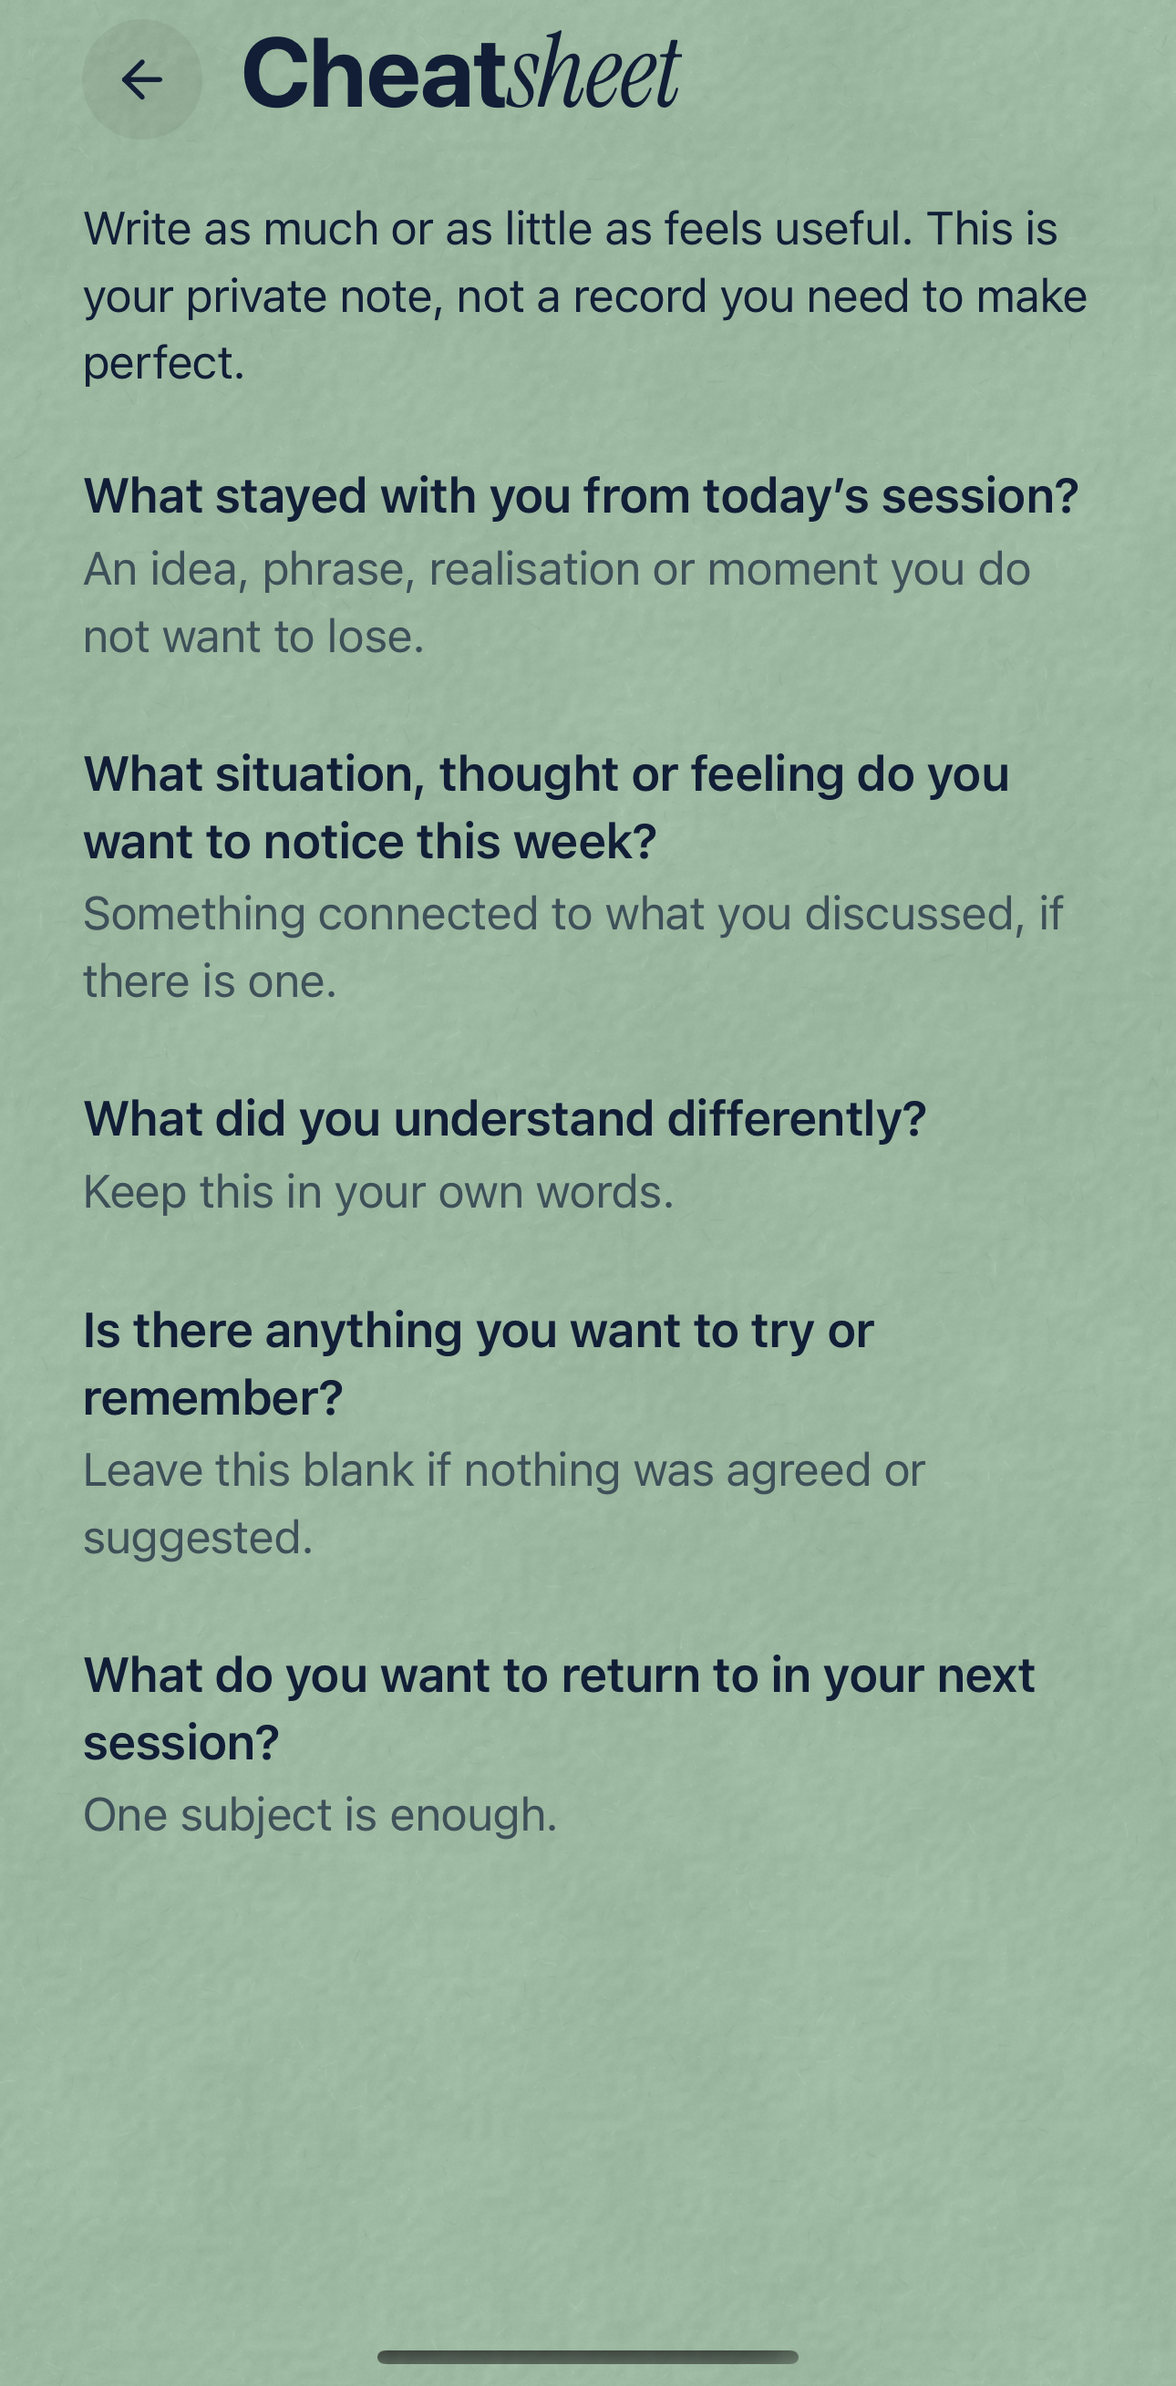
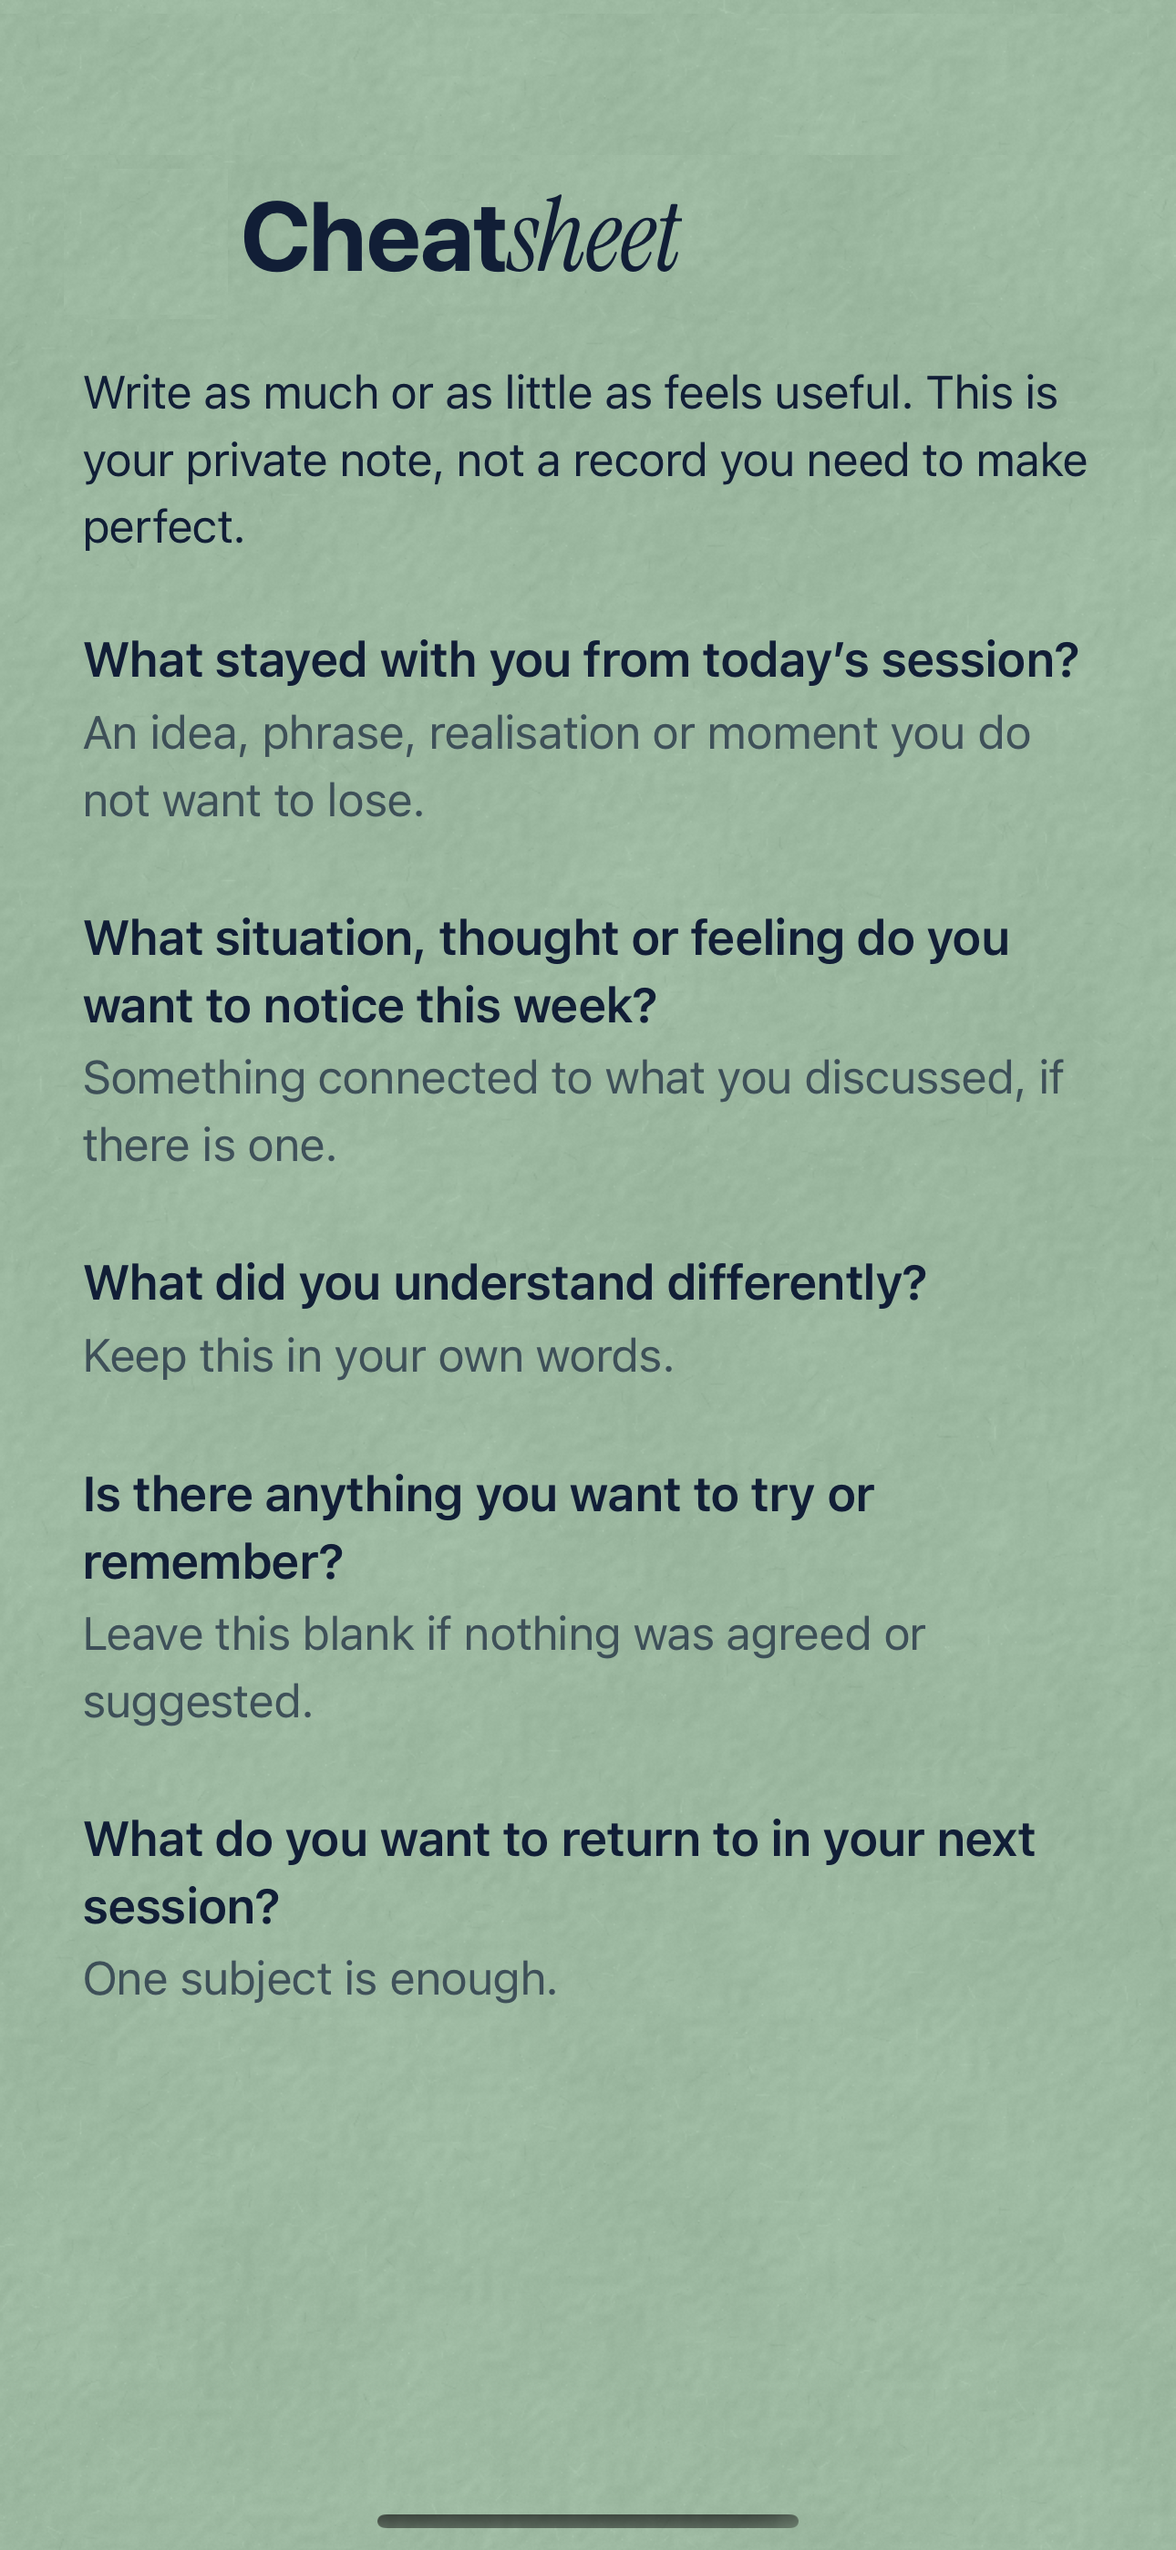
feat(onboarding): plan, reviews and notes screens per the latest design
The cheatsheet artwork loses the back arrow and status bar baked into the
screenshot: both are painted out with patches of the surrounding paper,
which also leaves clean paper padding above the title. The plan screen is
titled "Your custom plan", drops the line under the header, and its first
point now explains the notification that will actually arrive, phrased
around the session's own weekday. Its button reads "After your note".

The reviews screen opens with the evidence line instead of ending with
it, and its button reads "Your notes".

The notes screen drops its description, adds Mark's words beneath the
encryption note, and dissolves the list into the page just above the
button. Sizing that fade honestly took a simulator: a first attempt
covered the entire visible image with its own solid zone, which a red
diagnostic fill made obvious, and a stale Metro watcher had been serving
old bundles besides, which is why nothing seemed to change. Screenshots
of the final state confirmed all three screens.

Changed region(s): [[0.062, 0.0, 0.9302, 0.805], [0.4961, 0.6812, 0.8992, 0.7431], [0.093, 0.031, 0.124, 0.0619]]

diff --git a/app/(onboarding)/note-preview.tsx b/app/(onboarding)/note-preview.tsx
@@ -2,14 +2,13 @@ import { Image, StyleSheet, View, useWindowDimensions } from 'react-native';
 import type { ImageSourcePropType } from 'react-native';
 import { useRouter } from 'expo-router';
 import { Feather } from '@expo/vector-icons';
+import { LinearGradient } from 'expo-linear-gradient';
+import { QuoteCard } from '../../src/components/onboarding/QuoteCard';
+import { SURFACE_BLUE, SURFACE_BLUE_FADE } from 'designs/designs-colors';
 import { Button } from '../../src/components/ui/Button';
 import AppText from '../../src/components/ui/AppText';
 import { OnboardingScreen } from '../../src/components/onboarding/OnboardingScreen';
-import {
-    NOTE_PREVIEW_COPY,
-    notePreviewBody,
-} from '../../src/features/onboarding/onboardingCopy';
-import { useOnboardingAnswers } from '../../src/features/onboarding/OnboardingAnswersContext';
+import { NOTE_PREVIEW_COPY } from '../../src/features/onboarding/onboardingCopy';
 import { TEXT_COLORS } from 'designs/designs-colors';
 
 /** The screenshot's own proportions, so nothing is stretched. */
@@ -27,7 +26,6 @@ const NOTES_IMAGE_ASPECT = 1290 / 2616;
 
 export default function NotePreviewScreen() {
     const router = useRouter();
-    const { answers } = useOnboardingAnswers();
     const { width: screenWidth, height: screenHeight } = useWindowDimensions();
 
     // Explicit numbers, not a percentage plus an aspect ratio: on the new
@@ -42,13 +40,11 @@ export default function NotePreviewScreen() {
         <OnboardingScreen
             backHref="/(onboarding)/reviews-preview"
             headline={ NOTE_PREVIEW_COPY.headline }
-            // Answers the goal chosen in the first question rather than
-            // describing the notes the same way to everyone.
-            supporting={ notePreviewBody(answers.goal) }
             // Starts a margin below the content and runs to the bottom edge
             // of the screen, cut off by it, so the list reads as continuing
             // below the fold.
             bottomBackdrop={
+                <>
                 <Image
                     source={ require('../../assets/illustrations/notes-list-preview.png') as ImageSourcePropType }
                     style={ [styles.previewImage, { width: imageWidth, height: imageHeight, marginTop: imageTop }] }
@@ -56,6 +52,17 @@ export default function NotePreviewScreen() {
                     accessible
                     accessibilityLabel="A list of past therapy notes, each with the date of its session"
                 />
+                { /* Settles the list into the page just above the button. */ }
+                <LinearGradient
+                    colors={ [SURFACE_BLUE_FADE, SURFACE_BLUE, SURFACE_BLUE] }
+                    // Fully solid by halfway down, so the dissolve is finished
+                    // just above the button rather than at the screen edge
+                    // behind it.
+                    locations={ [0, 0.55, 1] }
+                    style={ styles.fade }
+                    pointerEvents="none"
+                />
+                </>
             }
             footer={
                 <Button
@@ -82,6 +89,13 @@ export default function NotePreviewScreen() {
                 </View>
             </View>
 
+            <View style={ styles.quote }>
+                <QuoteCard
+                    quote={ NOTE_PREVIEW_COPY.testimonial.quote }
+                    name={ NOTE_PREVIEW_COPY.testimonial.name }
+                    role={ NOTE_PREVIEW_COPY.testimonial.role }
+                />
+            </View>
         </OnboardingScreen>
     );
 }
@@ -111,5 +125,15 @@ const styles = StyleSheet.create({
     previewImage: {
         alignSelf: 'center',
         borderRadius: 28,
+    },
+    fade: {
+        position: 'absolute',
+        left: 0,
+        right: 0,
+        bottom: 0,
+        height: 260,
+    },
+    quote: {
+        marginTop: 20,
     },
 });

diff --git a/src/features/onboarding/onboardingCopy.ts b/src/features/onboarding/onboardingCopy.ts
@@ -103,65 +103,40 @@ export const REMINDER_TIMES_COPY = {
 } as const;
 
 export const PLAN_COPY = {
-    body: 'Capture what mattered, revisit it through the gap, then choose what to bring back.',
-    variableBody:
-		'Your first note is timed. Add your following session later to place reviews in the gap.',
     sampleLabel: 'Illustrative plan — these dates will not be saved',
     sampleHeadline: 'See how your plan could work',
     sampleBody:
         "This example shows how reminders can fit between sessions. Add your booked session later and we'll replace these dates with your real plan.",
     sampleVariableBody:
         "This example uses a one-week gap to show how reminders work. Add your booked sessions later and we'll use the real gap between them.",
-    researchTitle: 'Why these reminder moments?',
-    researchBody:
-        'Open any reminder below to see the specific memory principle and sources behind that point in the plan.',
     evidenceStatement:
         'The timing draws on research into memory consolidation, sleep, spaced retrieval and context reinstatement.',
-    primaryCta: 'What happens after you take your note',
+    primaryCta: 'After your note',
 } as const;
 
 export const REVIEWS_PREVIEW_COPY = {
     headline: 'Why these times?',
-    primaryCta: 'After you take your note',
+    primaryCta: 'Your notes',
 } as const;
 
-export const planHeadline = (weekday: string): string =>
-    `Your plan starts after your ${weekday} session`;
-
-export const planBody = (cadence: CadenceId | null): string =>
-    cadence === 'varies' ? PLAN_COPY.variableBody : PLAN_COPY.body;
+export const planHeadline = (): string => 'Your custom plan';
 
 export const samplePlanBody = (cadence: CadenceId | null): string =>
     cadence === 'varies' ? PLAN_COPY.sampleVariableBody : PLAN_COPY.sampleBody;
 
 export const NOTE_PREVIEW_COPY = {
     headline: 'Your notes',
+    testimonial: {
+        quote: "I like that the app keeps me accountable for reviewing my notes weekly. Makes me feel like I'm actually doing the work when I look back and see my week full of green bars.",
+        name: 'Mark',
+        role: 'Plastic Brains user',
+    },
     researchLink: 'Why these five questions?',
     privacyTitle: 'Your note stays yours',
     privacyBody:
 		'The contents of your therapy notes are encrypted and stored only on this iPhone. They are never uploaded to our servers.',
     primaryCta: 'See plans',
 } as const;
-
-/**
- * The opening line on the notes screen, answering the goal they chose.
- *
- * The goal question is the first thing onboarding asks, so the notes should be
- * described in terms of the outcome that person said they wanted rather than a
- * single line written for everyone.
- */
-export const notePreviewBody = (goal: GoalId | null): string => {
-    switch (goal) {
-        case 'practise':
-            return 'Your notes hold what came up, so you can put it into practice during the week rather than losing it by Wednesday.';
-        case 'prepare':
-            return 'Your notes build a clear thread you can look back over, so you arrive at your next session knowing what you want to raise.';
-        case 'habit':
-            return 'Your notes build a record across sessions, so you can look back and see what has actually changed.';
-        default:
-            return 'Your notes hold what mattered in each session, so you can revisit it and bring a clear thread back.';
-    }
-};
 
 export const remainingQuestions = (shown: number, total: number): string => {
     const remaining = total - shown;

diff --git a/app/__tests__/onboarding-note-preview.test.tsx b/app/__tests__/onboarding-note-preview.test.tsx
@@ -49,7 +49,7 @@ jest.mock('../../src/components/onboarding/OnboardingScreen', () => {
 });
 
 import NotePreviewScreen from '../(onboarding)/note-preview';
-import { NOTE_PREVIEW_COPY, notePreviewBody } from '../../src/features/onboarding/onboardingCopy';
+import { NOTE_PREVIEW_COPY } from '../../src/features/onboarding/onboardingCopy';
 
 describe('onboarding note preview', () => {
     beforeEach(() => {
@@ -64,25 +64,6 @@ describe('onboarding note preview', () => {
         expect(NOTE_PREVIEW_COPY.headline).toBe('Your notes');
     });
 
-    it('opens with the goal the user chose, not one line for everyone', () => {
-        const prepare = render(<NotePreviewScreen />);
-        expect(prepare.getByText(notePreviewBody('prepare'))).toBeTruthy();
-        prepare.unmount();
-
-        mockGoal = 'habit';
-        const habit = render(<NotePreviewScreen />);
-        expect(habit.getByText(notePreviewBody('habit'))).toBeTruthy();
-
-        expect(notePreviewBody('prepare')).not.toBe(notePreviewBody('habit'));
-    });
-
-    it('still says something sensible when no goal was recorded', () => {
-        mockGoal = null;
-        const { getByText } = render(<NotePreviewScreen />);
-
-        expect(getByText(notePreviewBody(null))).toBeTruthy();
-    });
-
     it('keeps the encryption note above the notes image', () => {
         const { getByText, getByLabelText } = render(<NotePreviewScreen />);
 
@@ -91,6 +72,19 @@ describe('onboarding note preview', () => {
         expect(
             getByLabelText('A list of past therapy notes, each with the date of its session'),
         ).toBeTruthy();
+    });
+
+    it("shows Mark's words under the encryption note", () => {
+        const { getByText } = render(<NotePreviewScreen />);
+
+        expect(getByText(new RegExp('keeps me accountable'))).toBeTruthy();
+        expect(getByText('Mark')).toBeTruthy();
+    });
+
+    it('carries no description under the headline', () => {
+        const { queryByText } = render(<NotePreviewScreen />);
+
+        expect(queryByText(/Your notes hold what came up/)).toBeNull();
     });
 
     it('renders the screenshot full width, undistorted, and in plain numbers', () => {

diff --git a/app/(onboarding)/plan-preview.tsx b/app/(onboarding)/plan-preview.tsx
@@ -10,13 +10,11 @@ import { PlanTimeline } from '../../src/components/onboarding/PlanTimeline';
 import {
     NOTE_PREVIEW_COPY,
     PLAN_COPY,
-    planBody,
     planHeadline,
     samplePlanBody,
 } from '../../src/features/onboarding/onboardingCopy';
 import { useOnboardingAnswers } from '../../src/features/onboarding/OnboardingAnswersContext';
 import { planTimeline } from '../../src/features/onboarding/planTimeline';
-import { weekdayName } from '../../src/features/onboarding/formatting';
 import { TEXT_COLORS } from 'designs/designs-colors';
 import { sampleSessionAt } from '../../src/features/onboarding/samplePlan';
 
@@ -60,8 +58,8 @@ export default function PlanPreviewScreen() {
     return (
         <OnboardingScreen
             backHref="/(onboarding)/reminder-times"
-            headline={ isSamplePlan ? PLAN_COPY.sampleHeadline : planHeadline(weekdayName(sessionAt)) }
-            supporting={ isSamplePlan ? samplePlanBody(answers.cadence) : planBody(answers.cadence) }
+            headline={ isSamplePlan ? PLAN_COPY.sampleHeadline : planHeadline() }
+            supporting={ isSamplePlan ? samplePlanBody(answers.cadence) : undefined }
             // The note itself, as a background image behind the content,
             // tilted a little so it reads as a sheet lying on the surface.
             bottomBackdrop={
@@ -106,7 +104,7 @@ export default function PlanPreviewScreen() {
 }
 
 /** Matches the notes screen, so the two artworks sit identically. */
-const IMAGE_ASPECT = 1290 / 2616;
+const IMAGE_ASPECT = 1290 / 2796;
 
 /**
  * Where the artwork's rounded top edge sits, as a fraction of screen height.

diff --git a/app/__tests__/onboarding-plan-split.test.tsx b/app/__tests__/onboarding-plan-split.test.tsx
@@ -39,20 +39,12 @@ describe('the plan is split across two screens', () => {
         expect(queryByText('Later that evening')).toBeNull();
     });
 
-    it('does not strand the reasoning away from the reminders it explains', () => {
-        const { queryByText } = render(<PlanPreviewScreen />);
-
-        expect(queryByText(PLAN_COPY.researchBody)).toBeNull();
-    });
-
-    it('leads the reviews screen with why the moments are where they are', () => {
+    it('leads the reviews screen with the evidence line', () => {
         const { getByText } = render(<ReviewsPreviewScreen />);
 
         expect(getByText(REVIEWS_PREVIEW_COPY.headline)).toBeTruthy();
         expect(REVIEWS_PREVIEW_COPY.headline).toBe('Why these times?');
-        // Points down at the list now, not up at it.
-        expect(getByText(PLAN_COPY.researchBody)).toBeTruthy();
-        expect(PLAN_COPY.researchBody).toContain('below');
+        expect(getByText(PLAN_COPY.evidenceStatement)).toBeTruthy();
     });
 
     it('shows the five-minute note under the point it belongs to', () => {
@@ -97,6 +89,6 @@ describe('the plan is split across two screens', () => {
 
     it('titles the reviews screen distinctly from its button', () => {
         expect(REVIEWS_PREVIEW_COPY.headline).not.toBe(REVIEWS_PREVIEW_COPY.primaryCta);
-        expect(REVIEWS_PREVIEW_COPY.primaryCta).toBe('After you take your note');
+        expect(REVIEWS_PREVIEW_COPY.primaryCta).toBe('Your notes');
     });
 });

diff --git a/app/(onboarding)/reviews-preview.tsx b/app/(onboarding)/reviews-preview.tsx
@@ -53,7 +53,7 @@ export default function ReviewsPreviewScreen() {
         <OnboardingScreen
             backHref="/(onboarding)/plan-preview"
             headline={ REVIEWS_PREVIEW_COPY.headline }
-            supporting={ PLAN_COPY.researchBody }
+            supporting={ PLAN_COPY.evidenceStatement }
             footer={
                 <Button
                     label={ REVIEWS_PREVIEW_COPY.primaryCta }
@@ -70,11 +70,6 @@ export default function ReviewsPreviewScreen() {
             <View style={ styles.timeline }>
                 <PlanTimeline entries={ reviews } />
             </View>
-
-            { /* Qualifies the list, so it stays underneath it. */ }
-            <AppText variant="caption" style={ styles.evidence }>
-                { PLAN_COPY.evidenceStatement }
-            </AppText>
         </OnboardingScreen>
     );
 }
@@ -87,9 +82,5 @@ const styles = StyleSheet.create({
         marginTop: 16,
         color: TEXT_COLORS.secondary,
         fontWeight: '600',
-    },
-    evidence: {
-        marginTop: 20,
-        color: TEXT_COLORS.secondary,
     },
 });

diff --git a/src/features/onboarding/__tests__/onboardingCopy.test.ts b/src/features/onboarding/__tests__/onboardingCopy.test.ts
@@ -7,7 +7,6 @@ import {
 	SUCCESS_COPY,
 	notificationsHeadline,
 	planCtaLabel,
-	planBody,
 	planPriceLine,
 	planRenewalLine,
 	successCopy,
@@ -88,13 +87,6 @@ describe('reminder-time copy', () => {
 		expect(notificationsHeadline('Tuesday', '6:00 pm')).toBe(
 			'Get your first note reminder Tuesday at 6:00 pm',
 		);
-	});
-});
-
-describe('variable session copy', () => {
-	it('does not promise review dates before another session is known', () => {
-		expect(planBody('varies')).toMatch(/Add your following session/);
-		expect(planBody('weekly')).toMatch(/revisit it through the gap/);
 	});
 });
 

diff --git a/src/features/onboarding/planTimeline.ts b/src/features/onboarding/planTimeline.ts
@@ -117,7 +117,7 @@ export function planTimeline({
         {
             id: 'log_note',
             label: 'After your session',
-            body: 'Capture what mattered in five focused questions.',
+            body: `We will send you a notification just after your session on ${session.format('dddd')} to remind you to take a note on what you discussed during your session. If you're not sure where to start we have a 5 minute, 5 questions template that makes it easy.`,
             researchTarget: null,
             at: logNoteAt.toDate(),
             occurrences: [logNoteAt.toDate()],
